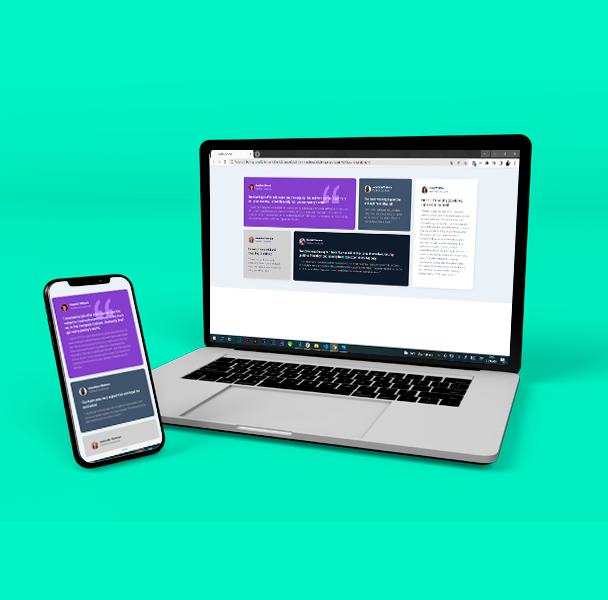
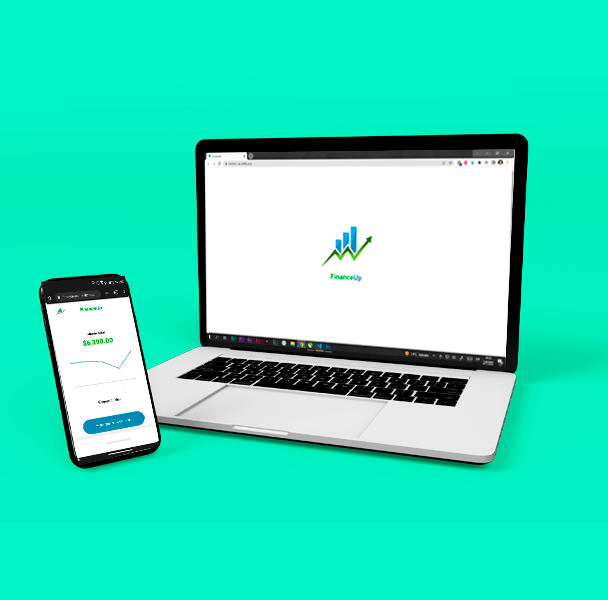
actualizacion sep

Changed region(s): [[0.0625, 0.21, 0.875, 0.81], [0.625, 0.21, 0.6875, 0.24]]

diff --git a/index.html b/index.html
@@ -82,6 +82,7 @@
             <div class="col-5 col-sm-4 col-md-3 img-lenguajes p-0"><img src="10.png" alt="lenguajes de programacion"></div>
             <div class="col-5 col-sm-4 col-md-3 img-lenguajes p-0"><img src="11.png" alt="lenguajes de programacion"></div>
             <div class="col-5 col-sm-4 col-md-3 img-lenguajes p-0"><img src="12.png" alt="lenguajes de programacion"></div>
+            <div class="col-5 col-sm-4 col-md-3 img-lenguajes p-0"><img src="13.png" alt="lenguajes de programacion"></div>
         </div>
     </section>
     <!-- PROYECTOS -->
@@ -129,10 +130,10 @@
 
             <div class="proyectos col-12 col-sm-6 col-md-3" >
                 <h4 class="text-center"></h4>
-                    <div class="profile-card-2"><a href="https://desafionavidad2.netlify.app/" class="d-flex justify-content-center" Target="_blank">
+                    <div class="profile-card-2"><a href="https://lnkd.in/dj5HHtuB" class="d-flex justify-content-center" Target="_blank">
                         <img src="trabajos (4).png" class="img img-responsive" alt="proyecto manejo flex cards">
-                        <div class="profile-name">FLEXBOX CSS</div>
-                        <div class="profile-username">Distribucion de cards</div></a>
+                        <div class="profile-name">FINANCE UP</div>
+                        <div class="profile-username">Billetera virtual</div></a>
                     </div>
             </div>
             <div class="proyectos col-12 col-sm-6 col-md-3" >
